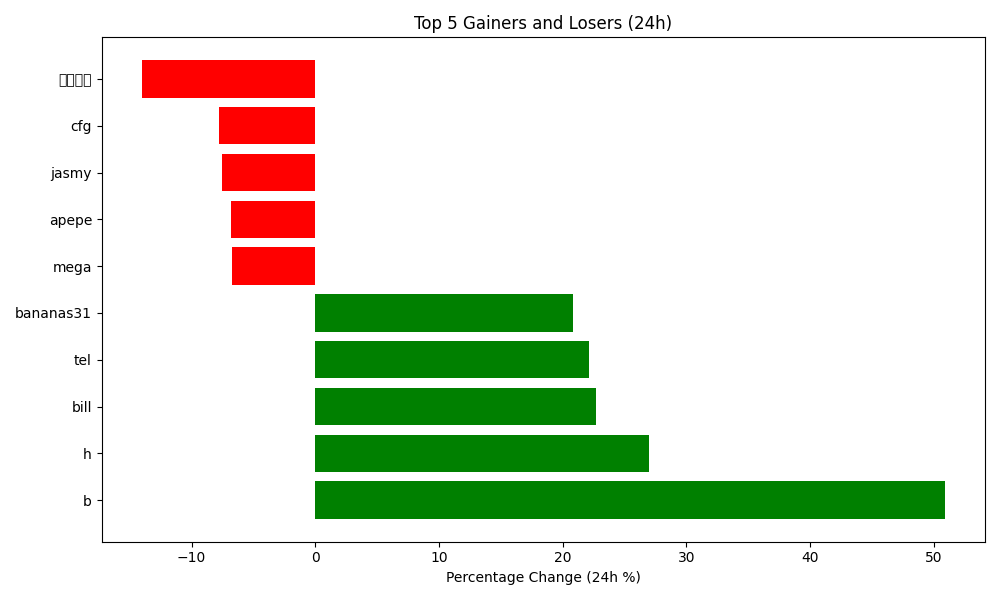
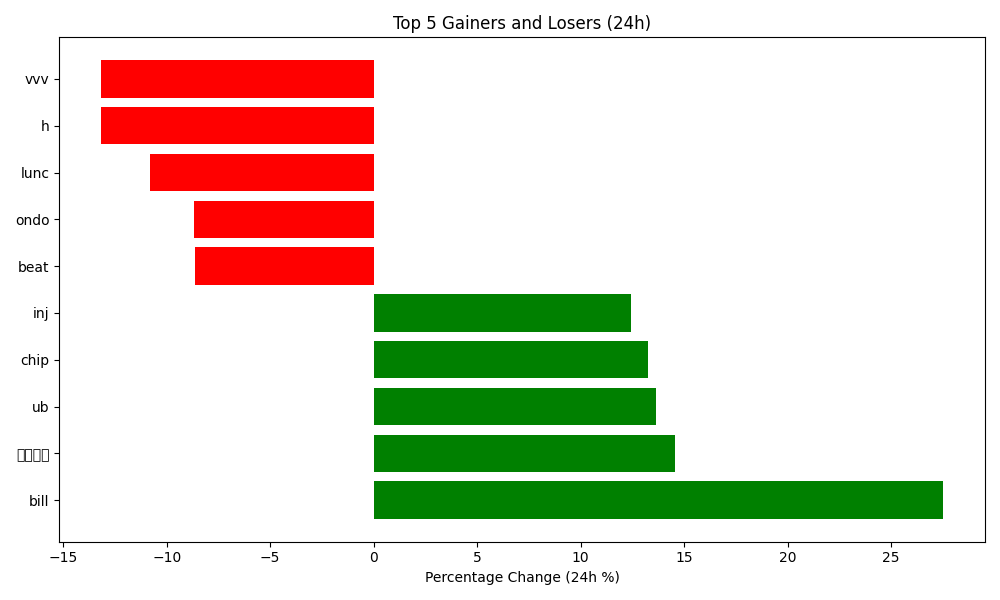
Auto-update crypto data and plot

diff --git a/README.md b/README.md
@@ -4,7 +4,7 @@ Author: Hitesh Agrawal
 This repository automatically tracks the top 5 gaining, top 5 losing, and top 5 highest volume cryptocurrencies in the last 24 hours using the CoinGecko API, Python, Matplotlib, and GitHub Actions updates the below content everyday at midnight.
 
 <!-- START_DYNAMIC_CONTENT -->
-Last updated: 2026-05-12 02:24 UTC
+Last updated: 2026-05-13 02:31 UTC
 
 ![Crypto Movers Plot](crypto_movers_plot.png)
 
@@ -12,33 +12,33 @@ Last updated: 2026-05-12 02:24 UTC
 
 | Rank | Coin | Price Change (24h %) | Volume (USD) | Current Price (USD) |
 | :--: | :--: | :------------------: | :----------: | :-----------------: |
-| 1 | b | 50.90% | $130,561,507 | $0.6103 |
-| 2 | h | 26.96% | $63,122,698 | $0.2743 |
-| 3 | bill | 22.72% | $326,199,191 | $0.1406 |
-| 4 | tel | 22.14% | $2,396,547 | $0.0027 |
-| 5 | bananas31 | 20.80% | $38,487,533 | $0.0146 |
+| 1 | bill | 27.50% | $294,289,482 | $0.1797 |
+| 2 | 币安人生 | 14.58% | $30,102,819 | $0.4306 |
+| 3 | ub | 13.65% | $27,514,924 | $0.1716 |
+| 4 | chip | 13.25% | $612,264,077 | $0.0689 |
+| 5 | inj | 12.41% | $207,418,711 | $5.1000 |
 
 
 **👇 Top 5 Losers (24h)**
 
 | Rank | Coin | Price Change (24h %) | Volume (USD) | Current Price (USD) |
 | :--: | :--: | :------------------: | :----------: | :-----------------: |
-| 1 | 币安人生 | -14.02% | $31,918,864 | $0.3734 |
-| 2 | cfg | -7.77% | $19,435,274 | $0.2869 |
-| 3 | jasmy | -7.53% | $25,499,417 | $0.0069 |
-| 4 | apepe | -6.81% | $32,797,343 | $0.0000 |
-| 5 | mega | -6.73% | $45,649,086 | $0.1166 |
+| 1 | vvv | -13.15% | $99,484,678 | $15.4000 |
+| 2 | h | -13.15% | $89,373,943 | $0.2367 |
+| 3 | lunc | -10.79% | $72,964,189 | $0.0001 |
+| 4 | ondo | -8.66% | $272,061,363 | $0.4055 |
+| 5 | beat | -8.65% | $6,680,918 | $0.5497 |
 
 
 **💎 Top 5 by Trade Volume (24h)**
 
 | Rank | Coin | Price Change (24h %) | Volume (USD) | Current Price (USD) |
 | :--: | :--: | :------------------: | :----------: | :-----------------: |
-| 1 | usdt | -0.01% | $58,590,808,356 | $0.9997 |
-| 2 | btc | -0.06% | $32,547,050,879 | $81,167.0000 |
-| 3 | usdc | -0.01% | $14,163,788,398 | $0.9998 |
-| 4 | eth | -1.64% | $14,110,833,011 | $2,311.5300 |
-| 5 | sol | 0.79% | $4,191,624,731 | $96.3300 |
+| 1 | usdt | 0.00% | $57,176,454,230 | $0.9997 |
+| 2 | btc | -0.13% | $33,025,914,980 | $81,109.0000 |
+| 3 | eth | -0.77% | $14,068,736,683 | $2,294.8500 |
+| 4 | usdc | -0.00% | $11,743,980,046 | $0.9998 |
+| 5 | sui | -2.12% | $3,421,277,683 | $1.2500 |
 
 
 <!-- END_DYNAMIC_CONTENT -->
